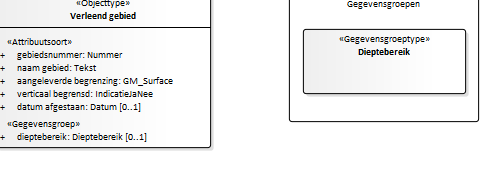
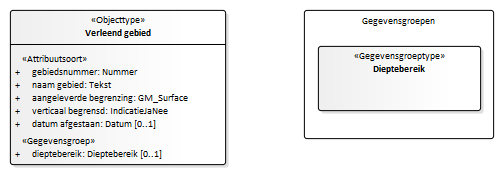
Conceptualmodel-EPLconceptueel-0.99-1-20210323-20210330-093159

diff --git a/data/EPL-cat.msword.html b/data/EPL-cat.msword.html
@@ -15,7 +15,7 @@
    <body>
       <p>Conceptual model/EPL conceptueel/20210323</p>
       <p>Imvertor: 1.64.0</p>
-      <p>Model release: Conceptualmodel-EPLconceptueel-0.99-1-20210323-20210330-092650</p>
+      <p>Model release: Conceptualmodel-EPLconceptueel-0.99-1-20210323-20210330-093159</p>
       <hr>
       <section>
          <h1>Artikel 1 Definitie van registratieobject, entiteiten en attributen</h1>
@@ -1061,7 +1061,7 @@
                            </tr>
                         </tbody>
                      </table>
-                     </section><a class="anchor" id="detail_d37928e3528"></a><section id="detail_d37928e3528">
+                     </section><a class="anchor" id="detail_d37944e3528"></a><section id="detail_d37944e3528">
                      <h4>  registratiegeschiedenis</h4>
                      <table style="width: 100%;">
                         <colgroup style="width: 30%;"></colgroup>
@@ -1094,7 +1094,7 @@
                            </tr>
                         </tbody>
                      </table>
-                  </section><a class="anchor" id="detail_d37928e3695"></a><section id="detail_d37928e3695">
+                  </section><a class="anchor" id="detail_d37944e3695"></a><section id="detail_d37944e3695">
                      <h4>  gestandaardiseerde locatie</h4>
                      <table style="width: 100%;">
                         <colgroup style="width: 30%;"></colgroup>
@@ -1138,7 +1138,7 @@
                            </tr>
                         </tbody>
                      </table>
-                  </section><a class="anchor" id="detail_d37928e3909"></a><section id="detail_d37928e3909">
+                  </section><a class="anchor" id="detail_d37944e3909"></a><section id="detail_d37944e3909">
                      <h4>  levensduur</h4>
                      <table style="width: 100%;">
                         <colgroup style="width: 30%;"></colgroup>
@@ -1171,7 +1171,7 @@
                            </tr>
                         </tbody>
                      </table>
-                  </section><a class="anchor" id="detail_d37928e4076"></a><section id="detail_d37928e4076">
+                  </section><a class="anchor" id="detail_d37944e4076"></a><section id="detail_d37944e4076">
                      <h4>  vergunninggeschiedenis</h4>
                      <table style="width: 100%;">
                         <colgroup style="width: 30%;"></colgroup>
@@ -1219,7 +1219,7 @@
                            </tr>
                         </tbody>
                      </table>
-                  </section><a class="anchor" id="detail_d37928e4292"></a><section id="detail_d37928e4292">
+                  </section><a class="anchor" id="detail_d37944e4292"></a><section id="detail_d37944e4292">
                      <h4>  vergunninghouder</h4>
                      <table style="width: 100%;">
                         <colgroup style="width: 30%;"></colgroup>
@@ -1260,7 +1260,7 @@
                            </tr>
                         </tbody>
                      </table>
-                  </section><a class="anchor" id="detail_d37928e4506"></a><section id="detail_d37928e4506">
+                  </section><a class="anchor" id="detail_d37944e4506"></a><section id="detail_d37944e4506">
                      <h4>  lopende wijziging</h4>
                      <table style="width: 100%;">
                         <colgroup style="width: 30%;"></colgroup>
@@ -2457,7 +2457,7 @@
                      </section>
                </section><a class="anchor" id="graph_EAID_FE57740F_46E2_4939_95A1_191BFFDB4F51"></a><a class="anchor" id="global_class_Model_Verleendgebied"></a><section id="global_class_Model_Verleendgebied">
                   <h3>   Verleend gebied</h3>
-                  <div class="imageinfo "><img src="Images/EAID_AE318AF3_8E62_40ee_A272_B0ECD682EA10.png" usemap="#imagemap-EAID_AE318AF3_8E62_40ee_A272_B0ECD682EA10" alt="Diagram "><map name="imagemap-EAID_AE318AF3_8E62_40ee_A272_B0ECD682EA10"><area shape="rect" alt="Dieptebereik" coords="303,29,466,94" href="#graph_EAID_53D77CAF_74C5_46b4_8B27_C92A8E442BC2"><area shape="rect" alt="Verleend gebied" coords="-5,-7,211,148" href="#graph_EAID_FE57740F_46E2_4939_95A1_191BFFDB4F51"></map><p><b></b></p>
+                  <div class="imageinfo "><img src="Images/EAID_AE318AF3_8E62_40ee_A272_B0ECD682EA10.png" usemap="#imagemap-EAID_AE318AF3_8E62_40ee_A272_B0ECD682EA10" alt="Diagram "><map name="imagemap-EAID_AE318AF3_8E62_40ee_A272_B0ECD682EA10"><area shape="rect" alt="Dieptebereik" coords="318,46,481,111" href="#graph_EAID_53D77CAF_74C5_46b4_8B27_C92A8E442BC2"><area shape="rect" alt="Verleend gebied" coords="10,10,226,165" href="#graph_EAID_FE57740F_46E2_4939_95A1_191BFFDB4F51"></map><p><b></b></p>
                   </div>
                   <table style="width: 100%;">
                      <colgroup style="width: 30%;"></colgroup>
@@ -2511,7 +2511,7 @@
                            </tr>
                            <tr>
                               <th>&nbsp;&nbsp;Naam</th>
-                              <td>Nummer </td>
+                              <td>Nummer 1</td>
                            </tr>
                            <tr>
                               <th>Regels</th>
@@ -2758,7 +2758,7 @@
                            </tr>
                         </tbody>
                      </table>
-                     </section><a class="anchor" id="detail_d37928e9553"></a><section id="detail_d37928e9553">
+                     </section><a class="anchor" id="detail_d37944e9562"></a><section id="detail_d37944e9562">
                      <h4>  dieptebereik</h4>
                      <table style="width: 100%;">
                         <colgroup style="width: 30%;"></colgroup>
@@ -2960,7 +2960,7 @@
                            </tr>
                         </tbody>
                      </table>
-                     </section><a class="anchor" id="detail_d37928e10313"></a><section id="detail_d37928e10313">
+                     </section><a class="anchor" id="detail_d37944e10322"></a><section id="detail_d37944e10322">
                      <h4>  geologische bovengrens</h4>
                      <table style="width: 100%;">
                         <colgroup style="width: 30%;"></colgroup>
@@ -3005,7 +3005,7 @@
                            </tr>
                         </tbody>
                      </table>
-                  </section><a class="anchor" id="detail_d37928e10533"></a><section id="detail_d37928e10533">
+                  </section><a class="anchor" id="detail_d37944e10542"></a><section id="detail_d37944e10542">
                      <h4>  geologische ondergrens</h4>
                      <table style="width: 100%;">
                         <colgroup style="width: 30%;"></colgroup>
@@ -3388,7 +3388,7 @@
                            </tr>
                         </tbody>
                      </table>
-                     </section><a class="anchor" id="detail_d37928e11885"></a><section id="detail_d37928e11885">
+                     </section><a class="anchor" id="detail_d37944e11894"></a><section id="detail_d37944e11894">
                      <h4>  te wijzigen gegevens</h4>
                      <table style="width: 100%;">
                         <colgroup style="width: 30%;"></colgroup>
@@ -3668,7 +3668,7 @@
                            </tr>
                         </tbody>
                      </table>
-                     </section><a class="anchor" id="detail_d37928e12845"></a><section id="detail_d37928e12845">
+                     </section><a class="anchor" id="detail_d37944e12854"></a><section id="detail_d37944e12854">
                      <h4>  te wijzigen gebied</h4>
                      <table style="width: 100%;">
                         <colgroup style="width: 30%;"></colgroup>
@@ -3901,7 +3901,7 @@
                            </tr>
                         </tbody>
                      </table>
-                     </section><a class="anchor" id="detail_d37928e13787"></a><section id="detail_d37928e13787">
+                     </section><a class="anchor" id="detail_d37944e13796"></a><section id="detail_d37944e13796">
                      <h4>  geologische bovengrens</h4>
                      <table style="width: 100%;">
                         <colgroup style="width: 30%;"></colgroup>
@@ -3934,7 +3934,7 @@
                            </tr>
                         </tbody>
                      </table>
-                  </section><a class="anchor" id="detail_d37928e13954"></a><section id="detail_d37928e13954">
+                  </section><a class="anchor" id="detail_d37944e13963"></a><section id="detail_d37944e13963">
                      <h4>  geologische ondergrens</h4>
                      <table style="width: 100%;">
                         <colgroup style="width: 30%;"></colgroup>

diff --git a/data/EPL-cat.respec.html b/data/EPL-cat.respec.html
@@ -1037,7 +1037,7 @@
                   </tr>
                </tbody>
             </table>
-            </section><a class="anchor" id="detail_d37928e3528"></a><section id="detail_d37928e3528">
+            </section><a class="anchor" id="detail_d37944e3528"></a><section id="detail_d37944e3528">
             <h4>  registratiegeschiedenis</h4>
             <table style="width: 100%;">
                <colgroup style="width: 30%;"></colgroup>
@@ -1070,7 +1070,7 @@
                   </tr>
                </tbody>
             </table>
-         </section><a class="anchor" id="detail_d37928e3695"></a><section id="detail_d37928e3695">
+         </section><a class="anchor" id="detail_d37944e3695"></a><section id="detail_d37944e3695">
             <h4>  gestandaardiseerde locatie</h4>
             <table style="width: 100%;">
                <colgroup style="width: 30%;"></colgroup>
@@ -1114,7 +1114,7 @@
                   </tr>
                </tbody>
             </table>
-         </section><a class="anchor" id="detail_d37928e3909"></a><section id="detail_d37928e3909">
+         </section><a class="anchor" id="detail_d37944e3909"></a><section id="detail_d37944e3909">
             <h4>  levensduur</h4>
             <table style="width: 100%;">
                <colgroup style="width: 30%;"></colgroup>
@@ -1147,7 +1147,7 @@
                   </tr>
                </tbody>
             </table>
-         </section><a class="anchor" id="detail_d37928e4076"></a><section id="detail_d37928e4076">
+         </section><a class="anchor" id="detail_d37944e4076"></a><section id="detail_d37944e4076">
             <h4>  vergunninggeschiedenis</h4>
             <table style="width: 100%;">
                <colgroup style="width: 30%;"></colgroup>
@@ -1195,7 +1195,7 @@
                   </tr>
                </tbody>
             </table>
-         </section><a class="anchor" id="detail_d37928e4292"></a><section id="detail_d37928e4292">
+         </section><a class="anchor" id="detail_d37944e4292"></a><section id="detail_d37944e4292">
             <h4>  vergunninghouder</h4>
             <table style="width: 100%;">
                <colgroup style="width: 30%;"></colgroup>
@@ -1236,7 +1236,7 @@
                   </tr>
                </tbody>
             </table>
-         </section><a class="anchor" id="detail_d37928e4506"></a><section id="detail_d37928e4506">
+         </section><a class="anchor" id="detail_d37944e4506"></a><section id="detail_d37944e4506">
             <h4>  lopende wijziging</h4>
             <table style="width: 100%;">
                <colgroup style="width: 30%;"></colgroup>
@@ -2433,7 +2433,7 @@
             </section>
       </section><a class="anchor" id="graph_EAID_FE57740F_46E2_4939_95A1_191BFFDB4F51"></a><a class="anchor" id="global_class_Model_Verleendgebied"></a><section id="global_class_Model_Verleendgebied">
          <h3>   Verleend gebied</h3>
-         <div class="imageinfo "><img src="data/Images/EAID_AE318AF3_8E62_40ee_A272_B0ECD682EA10.png" usemap="#imagemap-EAID_AE318AF3_8E62_40ee_A272_B0ECD682EA10" alt="Diagram "><map name="imagemap-EAID_AE318AF3_8E62_40ee_A272_B0ECD682EA10"><area shape="rect" alt="Dieptebereik" coords="303,29,466,94" href="#graph_EAID_53D77CAF_74C5_46b4_8B27_C92A8E442BC2"><area shape="rect" alt="Verleend gebied" coords="-5,-7,211,148" href="#graph_EAID_FE57740F_46E2_4939_95A1_191BFFDB4F51"></map><p><b></b></p>
+         <div class="imageinfo "><img src="data/Images/EAID_AE318AF3_8E62_40ee_A272_B0ECD682EA10.png" usemap="#imagemap-EAID_AE318AF3_8E62_40ee_A272_B0ECD682EA10" alt="Diagram "><map name="imagemap-EAID_AE318AF3_8E62_40ee_A272_B0ECD682EA10"><area shape="rect" alt="Dieptebereik" coords="318,46,481,111" href="#graph_EAID_53D77CAF_74C5_46b4_8B27_C92A8E442BC2"><area shape="rect" alt="Verleend gebied" coords="10,10,226,165" href="#graph_EAID_FE57740F_46E2_4939_95A1_191BFFDB4F51"></map><p><b></b></p>
          </div>
          <table style="width: 100%;">
             <colgroup style="width: 30%;"></colgroup>
@@ -2487,7 +2487,7 @@
                   </tr>
                   <tr>
                      <th>&nbsp;&nbsp;Naam</th>
-                     <td>Nummer </td>
+                     <td>Nummer 1</td>
                   </tr>
                   <tr>
                      <th>Regels</th>
@@ -2734,7 +2734,7 @@
                   </tr>
                </tbody>
             </table>
-            </section><a class="anchor" id="detail_d37928e9553"></a><section id="detail_d37928e9553">
+            </section><a class="anchor" id="detail_d37944e9562"></a><section id="detail_d37944e9562">
             <h4>  dieptebereik</h4>
             <table style="width: 100%;">
                <colgroup style="width: 30%;"></colgroup>
@@ -2936,7 +2936,7 @@
                   </tr>
                </tbody>
             </table>
-            </section><a class="anchor" id="detail_d37928e10313"></a><section id="detail_d37928e10313">
+            </section><a class="anchor" id="detail_d37944e10322"></a><section id="detail_d37944e10322">
             <h4>  geologische bovengrens</h4>
             <table style="width: 100%;">
                <colgroup style="width: 30%;"></colgroup>
@@ -2981,7 +2981,7 @@
                   </tr>
                </tbody>
             </table>
-         </section><a class="anchor" id="detail_d37928e10533"></a><section id="detail_d37928e10533">
+         </section><a class="anchor" id="detail_d37944e10542"></a><section id="detail_d37944e10542">
             <h4>  geologische ondergrens</h4>
             <table style="width: 100%;">
                <colgroup style="width: 30%;"></colgroup>
@@ -3364,7 +3364,7 @@
                   </tr>
                </tbody>
             </table>
-            </section><a class="anchor" id="detail_d37928e11885"></a><section id="detail_d37928e11885">
+            </section><a class="anchor" id="detail_d37944e11894"></a><section id="detail_d37944e11894">
             <h4>  te wijzigen gegevens</h4>
             <table style="width: 100%;">
                <colgroup style="width: 30%;"></colgroup>
@@ -3644,7 +3644,7 @@
                   </tr>
                </tbody>
             </table>
-            </section><a class="anchor" id="detail_d37928e12845"></a><section id="detail_d37928e12845">
+            </section><a class="anchor" id="detail_d37944e12854"></a><section id="detail_d37944e12854">
             <h4>  te wijzigen gebied</h4>
             <table style="width: 100%;">
                <colgroup style="width: 30%;"></colgroup>
@@ -3877,7 +3877,7 @@
                   </tr>
                </tbody>
             </table>
-            </section><a class="anchor" id="detail_d37928e13787"></a><section id="detail_d37928e13787">
+            </section><a class="anchor" id="detail_d37944e13796"></a><section id="detail_d37944e13796">
             <h4>  geologische bovengrens</h4>
             <table style="width: 100%;">
                <colgroup style="width: 30%;"></colgroup>
@@ -3910,7 +3910,7 @@
                   </tr>
                </tbody>
             </table>
-         </section><a class="anchor" id="detail_d37928e13954"></a><section id="detail_d37928e13954">
+         </section><a class="anchor" id="detail_d37944e13963"></a><section id="detail_d37944e13963">
             <h4>  geologische ondergrens</h4>
             <table style="width: 100%;">
                <colgroup style="width: 30%;"></colgroup>
